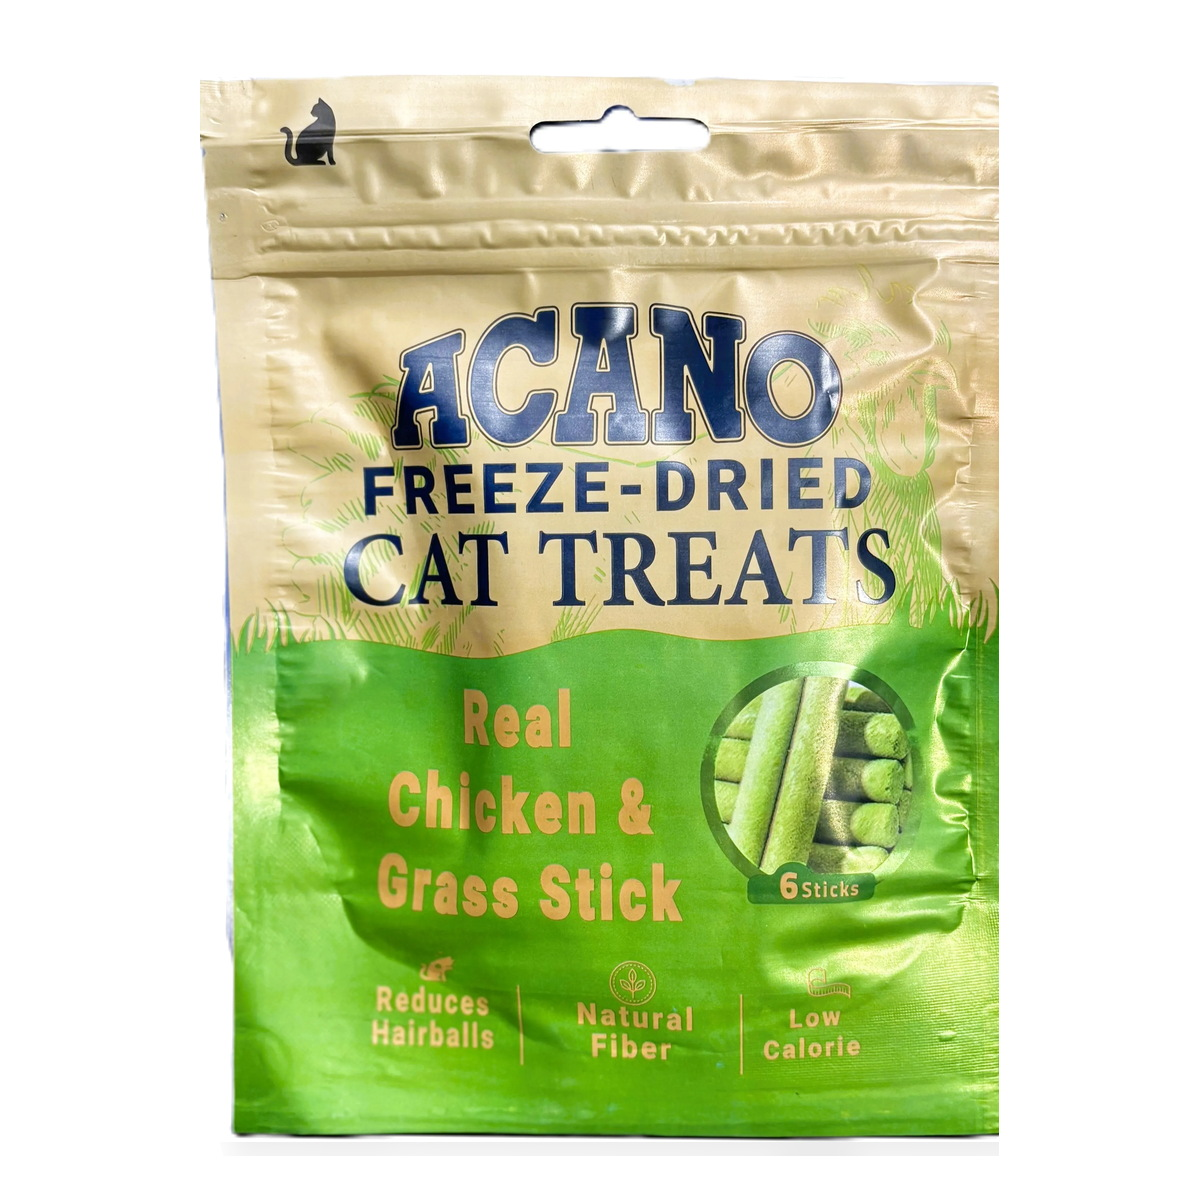
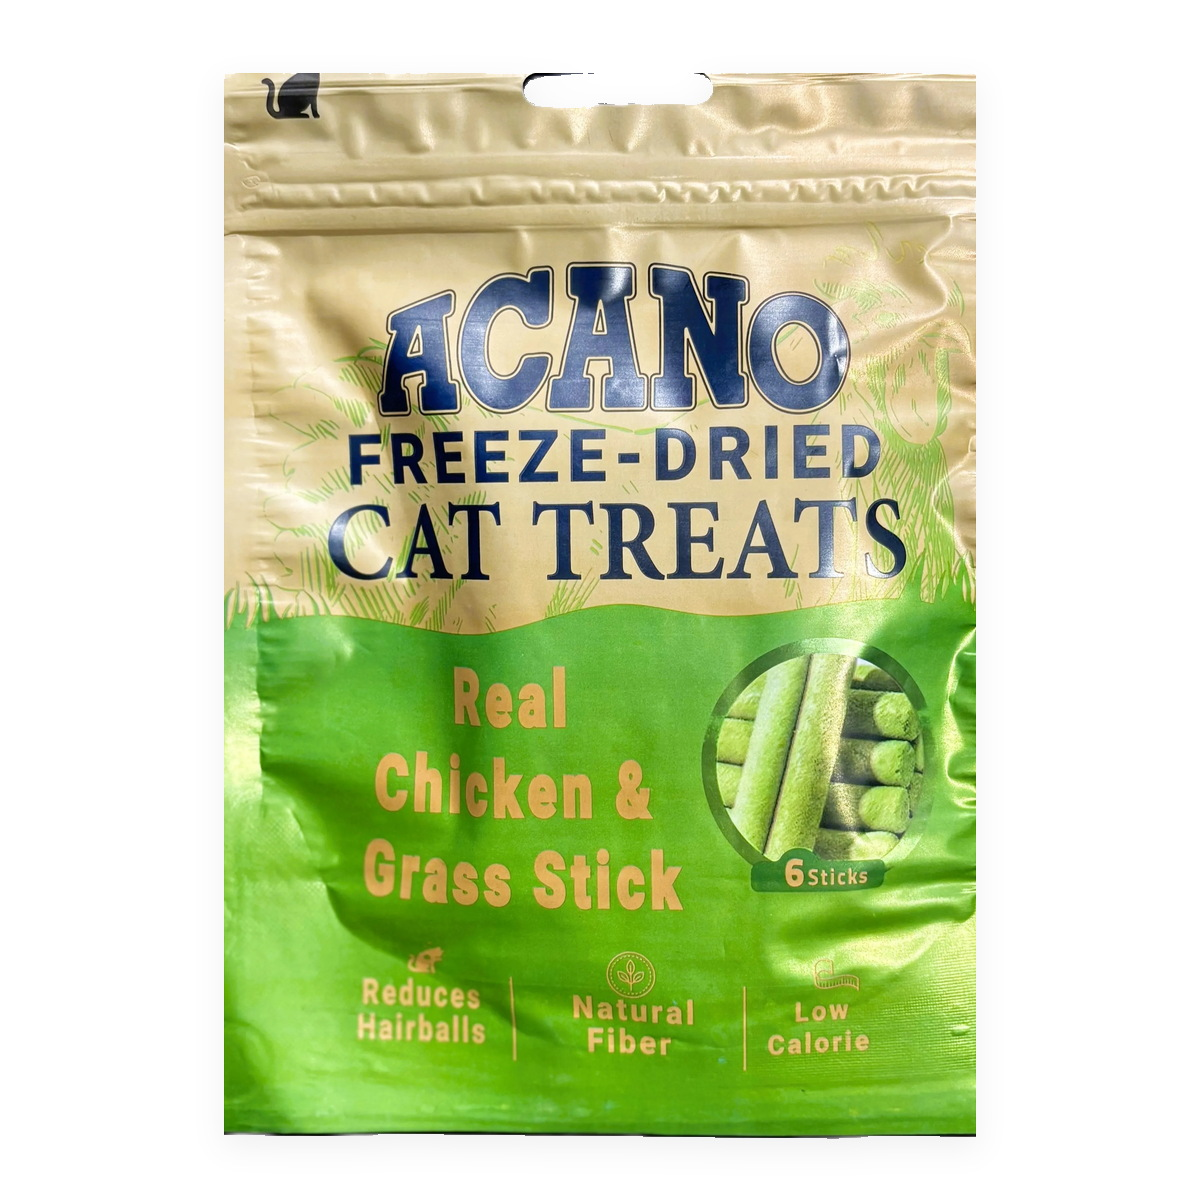
chore(shop): swap p265 ACANO grass remake (hard matte, no blue edge) + w2-v4

diff --git a/packages/api/src/data/shop-batch-multi-wave2-products.selftest.ts b/packages/api/src/data/shop-batch-multi-wave2-products.selftest.ts
@@ -1,5 +1,5 @@
 /**
- * Shop Batch-multi wave 2/5 — 10 SKUs, zero margin, 3-angle batch-multi-w2-v3 galleries.
+ * Shop Batch-multi wave 2/5 — 10 SKUs, zero margin, 3-angle batch-multi-w2-v4 galleries.
  * Run: npx tsx src/data/shop-batch-multi-wave2-products.selftest.ts
  */
 import assert from 'node:assert/strict';
@@ -77,7 +77,7 @@ async function main() {
   assert.equal(seed.SHOP_BATCH_MULTI_WAVE2_PRODUCTS[7]?.slug, 'dog-toys-ufo-treat-dispenser-dog-toy');
   assert.equal(seed.SHOP_BATCH_MULTI_WAVE2_PRODUCTS[8]?.id, 'p268');
   assert.equal(seed.SHOP_BATCH_MULTI_WAVE2_PRODUCTS[8]?.slug, 'dog-toys-crab-silicone-dog-chew-toothbrush-toy');
-  assert.equal(seed.SHOP_BATCH_MULTI_WAVE2_CACHE_BUST, 'batch-multi-w2-v3');
+  assert.equal(seed.SHOP_BATCH_MULTI_WAVE2_CACHE_BUST, 'batch-multi-w2-v4');
   assert.ok(
     !seed.SHOP_BATCH_MULTI_WAVE2_PRODUCTS.some((p) => (HELD_SHOP_SLUGS as readonly string[]).includes(p.slug)),
     'no held slugs remain in batch-multi wave 2 products'
@@ -157,7 +157,7 @@ async function main() {
   for (const row of rows) {
     assert.equal(row.price_toman, EXPECTED_PRICE[row.slug], `${row.slug} exact MANIFEST price`);
     assert.equal(row.cost_toman, row.price_toman, `${row.slug} margin 0`);
-    assert.match(row.image, new RegExp(`/pepito/uploads/${row.slug}\\.jpg\\?v=batch-multi-w2-v3$`));
+    assert.match(row.image, new RegExp(`/pepito/uploads/${row.slug}\\.jpg\\?v=batch-multi-w2-v4$`));
     assert.equal(row.badge, 'new');
     assert.equal(Number(row.featured), 1);
     assert.equal(Number(row.in_stock), 1);
@@ -171,8 +171,8 @@ async function main() {
       .filter(Boolean);
     assert.equal(gallery.length, 3, `${row.slug} stores 3 gallery URLs`);
     assert.equal(gallery[0], row.image, `${row.slug} first gallery src is cover`);
-    assert.ok(gallery[1]?.includes(`${row.slug}-2.jpg?v=batch-multi-w2-v3`), `${row.slug} angle 2`);
-    assert.ok(gallery[2]?.includes(`${row.slug}-3.jpg?v=batch-multi-w2-v3`), `${row.slug} angle 3`);
+    assert.ok(gallery[1]?.includes(`${row.slug}-2.jpg?v=batch-multi-w2-v4`), `${row.slug} angle 2`);
+    assert.ok(gallery[2]?.includes(`${row.slug}-3.jpg?v=batch-multi-w2-v4`), `${row.slug} angle 3`);
     assert.ok('__titleEn' in params, `${row.slug} stores titleEn key`);
     if (NO_INVENTED_WEIGHT.has(row.slug)) {
       assert.equal(params['وزن'], undefined, `${row.slug} must not invent وزن`);
@@ -185,8 +185,8 @@ async function main() {
     .all() as Array<{ slug: string }>;
   assert.equal(cats.length, 3, 'wave-2 categories are seeded');
 
-  const bust = readFileSync(join(repoRoot, 'tmp/cache-bust-shop-batch-multi-w2-v3'), 'utf8');
-  assert.match(bust, /batch-multi-w2-v3/, 'cache-bust marker present');
+  const bust = readFileSync(join(repoRoot, 'tmp/cache-bust-shop-batch-multi-w2-v4'), 'utf8');
+  assert.match(bust, /batch-multi-w2-v4/, 'cache-bust marker present');
 
   const imageNames = SHOP_BATCH_MULTI_WAVE2_SLUGS.flatMap((slug) => [
     `${slug}.jpg`,

diff --git a/packages/web/src/data/shopGallery.selftest.ts b/packages/web/src/data/shopGallery.selftest.ts
@@ -115,9 +115,9 @@ for (const [id, slug, price] of batchMultiW2) {
   assert.equal(item.priceToman, price, `${id} MANIFEST price`);
   const shots = productGallery(item);
   assert.equal(shots.length, 3, `${id} gallery has 3 unique angles`);
-  assert.ok(shots[0].includes(`${slug}.jpg?v=batch-multi-w2-v3`), `${id} front is batch-multi-w2-v3`);
-  assert.ok(shots[1].includes(`${slug}-2.jpg?v=batch-multi-w2-v3`), `${id} angle 2 is batch-multi-w2-v3`);
-  assert.ok(shots[2].includes(`${slug}-3.jpg?v=batch-multi-w2-v3`), `${id} angle 3 is batch-multi-w2-v3`);
+  assert.ok(shots[0].includes(`${slug}.jpg?v=batch-multi-w2-v4`), `${id} front is batch-multi-w2-v4`);
+  assert.ok(shots[1].includes(`${slug}-2.jpg?v=batch-multi-w2-v4`), `${id} angle 2 is batch-multi-w2-v4`);
+  assert.ok(shots[2].includes(`${slug}-3.jpg?v=batch-multi-w2-v4`), `${id} angle 3 is batch-multi-w2-v4`);
   assert.doesNotMatch(shots.join(' '), /purple|5c4d91|بنفش/i, `${id} gallery has no purple asset`);
 }
 assert.ok(getProduct('dog-treats-wanpy-chicken-jerky-chips-100g'), 'Wanpy jerky chips is in catalog');

diff --git a/packages/api/src/data/shop-batch-multi-wave2-products.ts b/packages/api/src/data/shop-batch-multi-wave2-products.ts
@@ -2,14 +2,14 @@
  * PetDate shop Batch-multi wave 2/5 — 10 live SKUs (p260–p269).
  * Additive, idempotent upsert by slug. Margin 0 (cost_toman = price_toman).
  * Seller copy is پت دیت شاپ only. Do not invent missing weights.
- * Gallery cache-bust is batch-multi-w2-v3 (wave 1 stays on batch-multi-w1-v4).
+ * Gallery cache-bust is batch-multi-w2-v4 (wave 1 stays on batch-multi-w1-v4).
  */
 import { getDb } from '../db';
 import { withShopImagesParam } from './shop-product-images';
 import { HELD_SHOP_SLUGS, SHOP_BATCH_MULTI_WAVE2_SLUGS } from './shop-zero-margin-slugs';
 
 const P = '/pepito/uploads';
-export const SHOP_BATCH_MULTI_WAVE2_CACHE_BUST = "batch-multi-w2-v3";
+export const SHOP_BATCH_MULTI_WAVE2_CACHE_BUST = "batch-multi-w2-v4";
 
 function multiGallery(slug: string): { image: string; images: string[] } {
   const images = [

diff --git a/packages/api/src/data/shop-live-catalog.selftest.ts b/packages/api/src/data/shop-live-catalog.selftest.ts
@@ -301,7 +301,7 @@ async function main() {
   assert.match(String(p259.image), /dog-treats-wanpy-toothbrush-chews-100g\.jpg\?v=batch-multi-w1-v4$/);
   assert.match(
     String(p269.image),
-    /dog-toys-luna-squeaky-smile-watermelon-plush-dog-toy\.jpg\?v=batch-multi-w2-v3$/
+    /dog-toys-luna-squeaky-smile-watermelon-plush-dog-toy\.jpg\?v=batch-multi-w2-v4$/
   );
   assert.match(
     String(p279.image),

diff --git a/packages/web/src/data/shopBatchMultiWave2Products.ts b/packages/web/src/data/shopBatchMultiWave2Products.ts
@@ -1,7 +1,7 @@
 import type { ShopProduct } from './shopCatalog';
 
 const P = '/pepito/uploads';
-const V = "batch-multi-w2-v3";
+const V = "batch-multi-w2-v4";
 
 function gallery(slug: string): { image: string; images: string[] } {
   const images = [

diff --git a/scripts/gen-shop-batch-multi-wave2.py b/scripts/gen-shop-batch-multi-wave2.py
@@ -271,7 +271,7 @@ def write_api() -> None:
  * PetDate shop Batch-multi wave 2/5 — 10 live SKUs (p260–p269).
  * Additive, idempotent upsert by slug. Margin 0 (cost_toman = price_toman).
  * Seller copy is پت دیت شاپ only. Do not invent missing weights.
- * Gallery cache-bust is batch-multi-w2-v3 (wave 1 stays on batch-multi-w1-v1).
+ * Gallery cache-bust is batch-multi-w2-v4 (wave 1 stays on batch-multi-w1-v1).
  */
 import {{ getDb }} from '../db';
 import {{ withShopImagesParam }} from './shop-product-images';
@@ -467,7 +467,7 @@ def write_price_index() -> None:
 
 
 def write_cache_bust() -> None:
-    dest = ROOT / "tmp/cache-bust-shop-batch-multi-w2-v3"
+    dest = ROOT / "tmp/cache-bust-shop-batch-multi-w2-v4"
     dest.write_text(f"{CACHE_BUST}\n")
 
 
@@ -477,8 +477,8 @@ def main() -> None:
         raise SystemExit(f"missing descriptions: {missing}")
     if [p["proposedId"] for p in PRODUCTS] != [f"p{i}" for i in range(260, 270)]:
         raise SystemExit("wave 2 ids must be p260–p269 in order")
-    if CACHE_BUST != "batch-multi-w2-v3":
-        raise SystemExit("wave 2 cache bust must be batch-multi-w2-v3")
+    if CACHE_BUST != "batch-multi-w2-v4":
+        raise SystemExit("wave 2 cache bust must be batch-multi-w2-v4")
     write_web()
     write_api()
     write_price_index()
